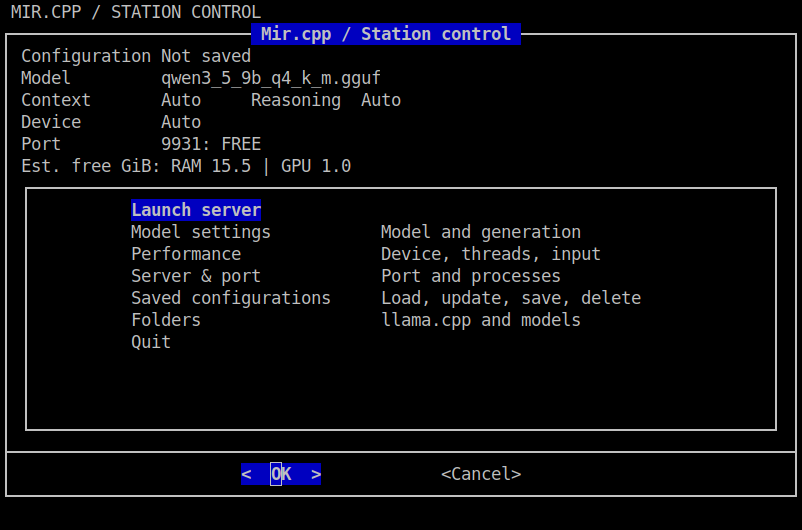
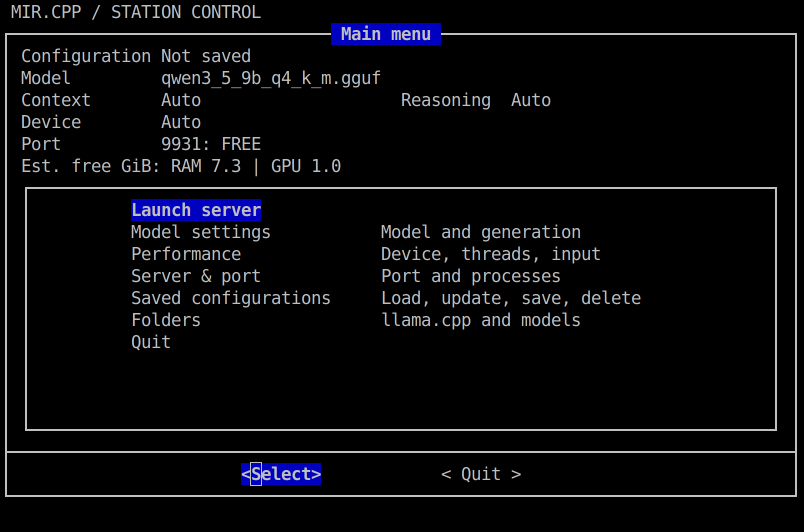
docs: refresh real terminal screenshots and navigation guidance

Changed region(s): [[0.0, 0.0604, 0.9975, 0.9358], [0.4676, 0.4226, 0.8105, 0.634], [0.0, 0.0, 0.6546, 0.0906]]

diff --git a/mir/docs/guide.md b/mir/docs/guide.md
@@ -49,7 +49,7 @@ sudo; correct the permissions and retry, or reinstall to repair a partial remova
 
 ## Using the menu
 
-Use the arrow keys to select an item, **Enter** to open it, and **Tab** to move between buttons. Cancel an individual setting with **Back** or **Esc** to keep its previous value. **Quit** or **Esc** on the main screen exits the launcher.
+Use the arrow keys to highlight an item, **Enter** or **Select** to open it, and **Tab** to move between buttons. Menus offer **Select / Back**; the main screen offers **Select / Quit**. Cancel an individual setting with **Back** or **Esc** to keep its previous value. **Quit** or **Esc** on the main screen exits the launcher.
 
 The main screen shows the current configuration and model, context and reasoning on one line, then device, port status and estimated free memory. Long names are shortened in summaries, keeping their beginning and end; stored values are unchanged. Launch server is first; setup and management menus follow. Internal menu codes are hidden to keep the display clear at 80×24 characters. It has seven entries:
 
@@ -71,7 +71,7 @@ After you select **Launch server**, loading may take a while. The browser opens 
 
 The running screen offers **View log** for details and **Stop server** to stop the model and exit. Closing the browser alone does not stop the server. Logs are temporary and are removed when the launcher exits.
 
-The interface follows the Mir.cpp logo palette: a black background, light text, white-on-blue titles, selected items and active buttons, and thin light borders without shadows. A compact MIR.CPP / STATION CONTROL header identifies every screen. Aligned summaries separate configuration, model settings and server status, with consistent spacing throughout. Keep the `lib/` folder and `dialogrc` beside the script when moving the launcher; the theme applies only to this launcher. Exact shades and the monospaced font follow your terminal settings; the launcher does not redefine the terminal palette or change fonts. Status labels remain explicit without color, and the menus fit an 80×24 terminal.
+The interface follows the Mir.cpp logo palette: a black background, light text, white-on-blue titles, selected items and active buttons, and thin light borders without shadows. A compact MIR.CPP / STATION CONTROL header identifies every screen once; window titles describe the current task, such as **Main menu**, **Model settings** or **Server log**. Aligned summaries separate configuration, model settings and server status, with consistent spacing throughout. Keep the `lib/` folder and `dialogrc` beside the script when moving the launcher; the theme applies only to this launcher. Exact shades and the monospaced font follow your terminal settings; the launcher does not redefine the terminal palette or change fonts. Status labels remain explicit without color, and the menus fit an 80×24 terminal.
 
 ## Folder paths
 
